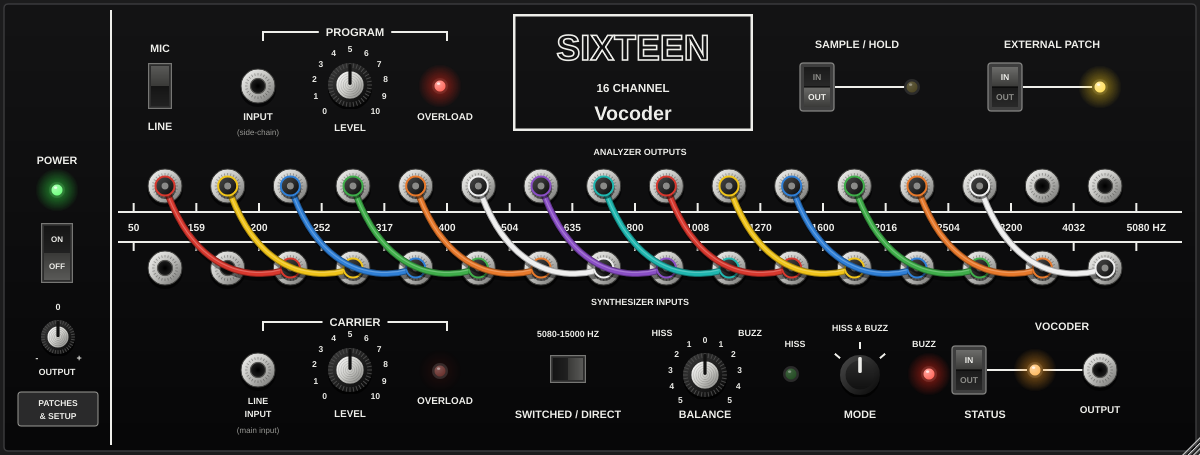
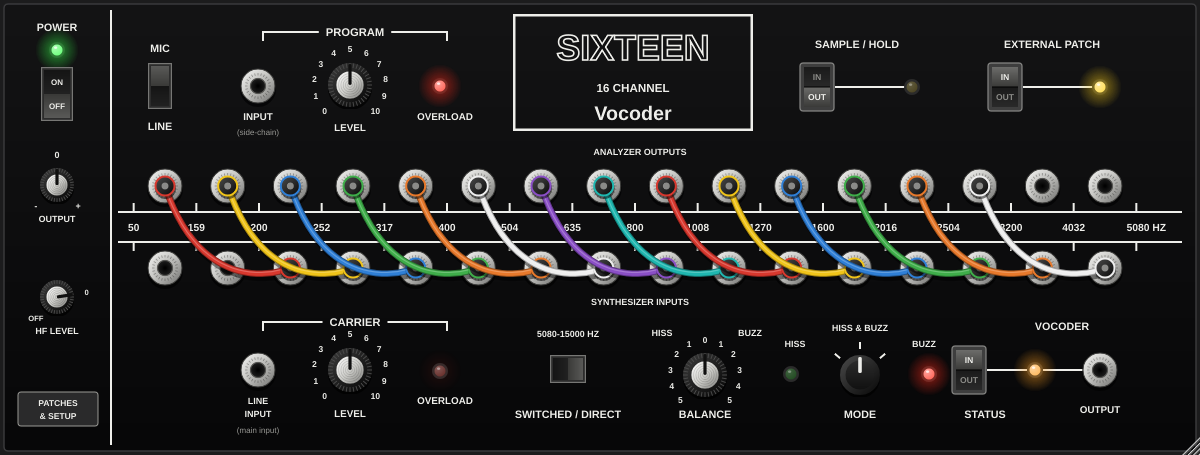
Sixteen: HF LEVEL control against speaker feedback
The 5080-15000 Hz channel passes the mic's high end straight to the output
at +4 dB, so with a live mic it feeds back, worst in HISS mode where it is
always open. HF LEVEL (the original's internal trimmer, 0 dB = as designed,
fully left = off) sits in the left column under OUTPUT.

A new test closes the loop (mic hears the output 5 ms later): at 0 dB the
loop runs away above a leak of ~0.63; -6 dB stops it at 1.0, -12 dB at 1.5.

Claude-Session: https://claude.ai/code/session_01SHk4Qm9DLMF6rhEoSz3Djn

Changed region(s): [[0.0308, 0.3385, 0.0617, 0.7692], [0.0308, 0.0308, 0.0617, 0.2769], [0.0308, 0.8, 0.0617, 0.8308]]

diff --git a/vocoder/plugin/SixteenEditor.cpp b/vocoder/plugin/SixteenEditor.cpp
@@ -311,6 +311,7 @@ static RangedAudioParameter& P (SixteenProcessor& p, const char* id) { return *p
 Panel::Panel (SixteenProcessor& p)
     : proc (p),
       programLevel (P (p, "programLevel")), carrierLevel (P (p, "carrierLevel")), balance (P (p, "balance")), output (P (p, "output")),
+      hfLevel (P (p, "hfLevel")),
       mode (P (p, "mode")),
       mic (P (p, "mic"), Toggle::Style::RockerVertical),
       sampleHold (P (p, "sampleHold"), Toggle::Style::Paddle),
@@ -320,7 +321,7 @@ Panel::Panel (SixteenProcessor& p)
       power (P (p, "power"), Toggle::Style::Power)
 {
     setSize (kWidth, kHeight);
-    for (Component* c : std::initializer_list<Component*> { &programLevel, &carrierLevel, &balance, &output, &mode, &mic, &sampleHold,
+    for (Component* c : std::initializer_list<Component*> { &programLevel, &carrierLevel, &balance, &output, &hfLevel, &mode, &mic, &sampleHold,
                                                             &externalPatch, &hfDirect, &status, &power })
         addAndMakeVisible (c);
 
@@ -333,8 +334,12 @@ Panel::Panel (SixteenProcessor& p)
     externalPatch.setBounds (987, 62, 36, 50);
     status.setBounds (951, 345, 36, 50);
     hfDirect.setBounds (549, 354, 38, 30);
-    power.setBounds (40, 222, 34, 62);
-    output.setBounds (39, 318, 38, 38);
+    power.setBounds (40, 66, 34, 56);
+    output.setBounds (38, 166, 38, 38);
+    hfLevel.setBounds (38, 278, 38, 38);
+    output.setTooltip ("Output level (a plug-in addition). Set the input levels with the OVERLOAD lamps first.");
+    hfLevel.setTooltip ("Level of the 5080-15000 Hz channel, which passes the mic's high end straight to the output "
+                        "(an internal trimmer on the original). Turn it down if HISS or \"s\" sounds feed back.");
 }
 
 Point<float> Panel::jackPos (int row, int index)
@@ -357,12 +362,14 @@ void Panel::paint (Graphics& g)
     // left column
     g.setColour (kInk);
     g.fillRect (110.0f, 10.0f, 2.0f, H - 20);
-    text (g, "POWER", 57, 160, 12);
-    drawLed (g, { 57, 190 }, Colour (0xff35ff4a), proc.apvts.getRawParameterValue ("power")->load() > 0.5f ? 1.0f : 0.0f);
+    text (g, "POWER", 57, 27, 12);
+    drawLed (g, { 57, 50 }, Colour (0xff35ff4a), proc.apvts.getRawParameterValue ("power")->load() > 0.5f ? 1.0f : 0.0f);
 
     // output trim (a plug-in addition, not on the original panel)
-    knobScale (g, { 58, 337 }, 30, { "-", "", "", "", "", "0", "", "", "", "", "+" }, 10.0f);
-    text (g, "OUTPUT", 57, 372, 10);
+    knobScale (g, { 57, 185 }, 30, { "-", "", "", "", "", "0", "", "", "", "", "+" }, 10.0f);
+    text (g, "OUTPUT", 57, 219, 10);
+    knobScale (g, { 57, 297 }, 30, { "OFF", "", "", "", "", "", "", "", "0", "", "" }, 8.5f);
+    text (g, "HF LEVEL", 57, 331, 10);
 
     // setup button (patch presets, input routing)
     g.setColour (Colour (0xff2a2a2b));

diff --git a/vocoder/tests/vocoder_test.cpp b/vocoder/tests/vocoder_test.cpp
@@ -382,6 +382,37 @@ int main (int argc, char** argv)
         CHECK (rms (none) < 1e-4, "unpatched synth inputs should be silent");
     }
 
+    // 7b. Acoustic feedback in HISS mode: the mic hears the speakers (5 ms later). The
+    // 5080-15000 Hz channel is a direct mic-to-speaker path with a gain of 1.59, so the loop
+    // runs away once the leak exceeds ~1/1.59. HF LEVEL must stop it.
+    {
+        const double fs = 48000;
+        auto voice = makeVoice (fs, 1.5);
+        voice.resize ((size_t) (3.5 * fs), 0.0f);
+        auto carrier = makeCarrier (fs, 3.5, true);
+        auto tail = [&] (double leak, float hfDb)
+        {
+            Engine e; e.prepare (fs);
+            Params p; p.mode = Mode::Hiss; p.hfDirect = true; p.hfLevelDb = hfDb;
+            const int d = 240, block = 64;
+            std::vector<float> out (voice.size(), 0.0f), mic (voice.size(), 0.0f);
+            for (size_t i = 0; i < voice.size(); i += block)
+            {
+                for (size_t n = i; n < i + block; ++n)
+                    mic[n] = voice[n] + (float) (n >= (size_t) d ? leak * out[n - d] : 0.0);
+                e.process (mic.data() + i, carrier.data() + i, out.data() + i, block, p);
+            }
+            return 20 * std::log10 (rms (out, (size_t) (3.0 * fs), out.size()) + 1e-9);
+        };
+        std::printf ("Speaker feedback in HISS mode, level 1.5 s after the voice stops:\n");
+        for (double leak : { 0.5, 1.0, 1.5 })
+            std::printf ("  leak %.1f: HF 0 dB %6.1f dB, HF -6 dB %6.1f dB, HF -12 dB %6.1f dB, HF off %6.1f dB\n",
+                         leak, tail (leak, 0), tail (leak, -6), tail (leak, -12), tail (leak, -24));
+        CHECK (tail (0.5, 0) < -80, "feedback at normal HF level with low leak");
+        CHECK (tail (1.0, -6) < -80, "HF LEVEL -6 dB should stop feedback at leak 1.0");
+        CHECK (tail (1.5, -12) < -80, "HF LEVEL -12 dB should stop feedback at leak 1.5");
+    }
+
     // 8. Demo renders (48 kHz)
     {
         const double fs = 48000;

diff --git a/vocoder/plugin/SixteenProcessor.cpp b/vocoder/plugin/SixteenProcessor.cpp
@@ -23,6 +23,7 @@ SixteenProcessor::SixteenProcessor()
     raw.status = get ("status");
     raw.preFilter = get ("preFilter");
     raw.output = get ("output");
+    raw.hfLevel = get ("hfLevel");
     raw.routing = get ("routing");
     for (int j = 0; j < kNumChannels; ++j)
         raw.patch[(size_t) j] = apvts.getRawParameterValue (patchId (j));
@@ -51,6 +52,9 @@ juce::AudioProcessorValueTreeState::ParameterLayout SixteenProcessor::createLayo
     l.add (std::make_unique<AudioParameterBool> (ParameterID { "status", 1 }, "Status (Vocoder)", true, onOff ("Out", "In")));
     l.add (std::make_unique<AudioParameterFloat> (ParameterID { "output", 1 }, "Output", NormalisableRange<float> (-24.0f, 24.0f), 0.0f,
                                                   AudioParameterFloatAttributes().withLabel ("dB")));
+    l.add (std::make_unique<AudioParameterFloat> (ParameterID { "hfLevel", 1 }, "HF Level", NormalisableRange<float> (-24.0f, 6.0f), 0.0f,
+                                                  AudioParameterFloatAttributes().withStringFromValueFunction ([] (float v, int)
+                                                  { return v <= -23.9f ? String ("Off") : String (v, 1) + " dB"; })));
     l.add (std::make_unique<AudioParameterBool> (ParameterID { "preFilter", 1 }, "259 Hz Pre-Filter", true, onOff ("Off", "On")));
     l.add (std::make_unique<AudioParameterChoice> (ParameterID { "routing", 1 }, "Inputs",
                                                    StringArray { "Carrier = Main, Program = Side-chain", "Program = Main, Carrier = Side-chain" }, 0));
@@ -107,6 +111,7 @@ vocoder::Params SixteenProcessor::readParams() const
     p.vocoderOn = raw.status->load() > 0.5f;
     p.preFilter = raw.preFilter->load() > 0.5f;
     p.outputDb = raw.output->load();
+    p.hfLevelDb = raw.hfLevel->load();
     for (int j = 0; j < kNumChannels; ++j)
         p.patch[(size_t) j] = (int) std::lround (raw.patch[(size_t) j]->load()) - 1;
     return p;

diff --git a/vocoder/dsp/VocoderEngine.cpp b/vocoder/dsp/VocoderEngine.cpp
@@ -127,6 +127,7 @@ void Engine::process (const float* program, const float* carrier, float* out, in
     const double progGainTarget = levelKnobGain (p.programLevel) * (p.micInput ? 10.0 : 1.0);
     const double carGainTarget  = levelKnobGain (p.carrierLevel);
     const double outGainTarget  = std::pow (10.0, std::clamp ((double) p.outputDb, -36.0, 24.0) / 20.0);
+    const double hfGainTarget   = p.hfLevelDb <= -23.9f ? 0.0 : std::pow (10.0, std::clamp ((double) p.hfLevelDb, -24.0, 12.0) / 20.0);
 
     // BALANCE: the pot sits between the noise (HISS) gate and the carrier (BUZZ) gate.
     const double t = (std::clamp ((double) p.balance, -5.0, 5.0) + 5.0) / 10.0;  // 0 = HISS end
@@ -154,6 +155,7 @@ void Engine::process (const float* program, const float* carrier, float* out, in
         sStatus    += ((p.vocoderOn ? 1.0 : 0.0) - sStatus) * smoothCoef;
         sPower     += ((p.power ? 1.0 : 0.0) - sPower) * smoothCoef;
         sOutGain   += (outGainTarget - sOutGain) * smoothCoef;
+        sHfGain    += (hfGainTarget - sHfGain) * smoothCoef;
 
         // ---- input preamps
         const double progIn = dcProgram.process (program[n]);
@@ -210,7 +212,7 @@ void Engine::process (const float* program, const float* carrier, float* out, in
         }
 
         // ---- 5080-15000 Hz channel
-        const double hf = hfLowpass.process (hfHighpass.process (prog) * gateGain (hfGate));
+        const double hf = hfLowpass.process (hfHighpass.process (prog) * gateGain (hfGate)) * sHfGain;
 
         // The HF channel and the bypass carry the program at its own level (referred back to
         // the input), so "s" sounds keep their natural balance against the vocoded vowels.

diff --git a/vocoder/dsp/VocoderEngine.h b/vocoder/dsp/VocoderEngine.h
@@ -38,6 +38,7 @@ struct Params
     bool  vocoderOn    = true;    // STATUS: IN = vocoder, OUT = program passes straight through
     bool  preFilter    = true;    // 259 Hz analyzer pre-filter fitted (units above S/N 108)
     float outputDb     = 0.0f;    // output trim (not on the original panel)
+    float hfLevelDb    = 0.0f;    // 5080-15000 Hz channel level (the internal R473 trimmer); <= -24 = off
 
     // Patch cords: synthesizer input j is driven by analyzer output patch[j] (0..15),
     // or nothing (-1). Only used when externalPatch is on.
@@ -109,7 +110,7 @@ private:
     OnePole dcProgram, dcCarrier;
 
     // smoothed switch/knob positions (avoid zipper noise and clicks)
-    double sProgGain = 0, sCarGain = 0, sNoiseGain = 1, sBuzzGain = 1, sStatus = 1, sPower = 1, sOutGain = 1;
+    double sProgGain = 0, sCarGain = 0, sNoiseGain = 1, sBuzzGain = 1, sStatus = 1, sPower = 1, sOutGain = 1, sHfGain = 1;
     double smoothCoef = 0;
 
     Indicators ind;

diff --git a/vocoder/plugin/SixteenEditor.h b/vocoder/plugin/SixteenEditor.h
@@ -7,7 +7,7 @@ namespace sixteen
 {
 // A control bound to one plugin parameter (host automation and undo handled by
 // juce::ParameterAttachment).
-class ParamControl : public juce::Component
+class ParamControl : public juce::Component, public juce::SettableTooltipClient
 {
 public:
     ParamControl (juce::RangedAudioParameter& p);
@@ -85,7 +85,7 @@ public:
 private:
     SixteenProcessor& proc;
 
-    Knob programLevel, carrierLevel, balance, output;
+    Knob programLevel, carrierLevel, balance, output, hfLevel;
     ModeSelector mode;
     Toggle mic, sampleHold, externalPatch, hfDirect, status, power;
 

diff --git a/vocoder/plugin/SixteenProcessor.h b/vocoder/plugin/SixteenProcessor.h
@@ -72,7 +72,7 @@ private:
         std::atomic<float>* sampleHold {}; std::atomic<float>* externalPatch {};
         std::atomic<float>* hfDirect {}; std::atomic<float>* balance {};
         std::atomic<float>* mode {}; std::atomic<float>* status {};
-        std::atomic<float>* preFilter {}; std::atomic<float>* routing {}; std::atomic<float>* output {};
+        std::atomic<float>* preFilter {}; std::atomic<float>* routing {}; std::atomic<float>* output {}; std::atomic<float>* hfLevel {};
         std::array<std::atomic<float>*, vocoder::kNumChannels> patch {};
     } raw;
 

diff --git a/vocoder/README.md b/vocoder/README.md
@@ -47,6 +47,7 @@ If you'd rather insert it on the **vocal** track and side-chain the synth, open
 | **MIC / LINE** | MIC adds 20 dB of gain to the program input (for quiet sources) |
 | **PROGRAM LEVEL**, **CARRIER LEVEL** | Input gain, 3.6 dB per division: 5 = +12 dB, so a track peaking around −12 dBFS just lights the OVERLOAD lamp, which is where the vocoder works best. 10 = +30 dB for quiet tracks. The preamps saturate softly about 4 dB above the lamp threshold, as on the hardware. Below the threshold the lamps glow faintly with the input level |
 | **OUTPUT** | Output trim, ±24 dB. This isn't on the original panel. Like the hardware, the vocoded level follows voice level × carrier level, so 6 dB less on both inputs gives about 12 dB less output. Set the inputs with the lamps first, then use OUTPUT |
+| **HF LEVEL** | Level of the 5080–15000 Hz channel (on the original this was an internal trimmer). 0 = as designed; fully left = off. Turn it down if you get feedback, see below |
 | **SAMPLE / HOLD** | IN freezes the 16 control voltages, so a vowel sustains for as long as you like. Your MIDI sustain pedal (CC64) works as the foot switch, if you route MIDI to the plugin |
 | **EXTERNAL PATCH** | IN: the patch cords decide which analyzer band controls which synthesizer band. OUT: the normal 1:1 connection (cords stay plugged in but are ignored, as on the hardware) |
 | **Patch cords** | Drag from an *analyzer output* jack to a *synthesizer input* jack. Drag a plug away to remove it. You can also drag from an empty synthesizer input up to an analyzer output |
@@ -71,6 +72,18 @@ These are the cross-patches from the original manuals. Selecting one also sets E
 | Single / Double Cluster X | Bode patch sheet 1 | Speech scrambling "close to an instrumental sound" |
 | Single / Double Cluster Inverter | Bode patch sheet 2 | Mirrors the spectrum |
 | Straight (1:1), No Cords | | Starting points for your own patches |
+
+## Feedback with a live mic and speakers
+
+The 5080–15000 Hz channel sends the mic's high end straight to the output, 4 dB louder than it
+came in (a gain of 1.59, as on the hardware). With a live mic near the speakers that's a classic
+feedback path. It's worst in **HISS** mode, because there the channel is always open and the hiss
+coming back from the speakers keeps the discriminator in HISS.
+
+- Turn **HF LEVEL** down. In the test suite, −6 dB stops feedback with twice the speaker
+  pickup that triggers it at 0 dB, and −12 dB handles more.
+- Monitor on headphones while you record, or keep the mic away from and behind the speakers.
+- Lower the OUTPUT knob or the monitor volume.
 
 ## What's modelled, and how
 
